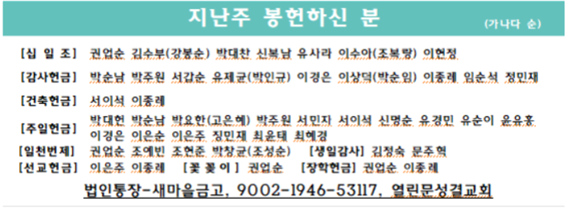
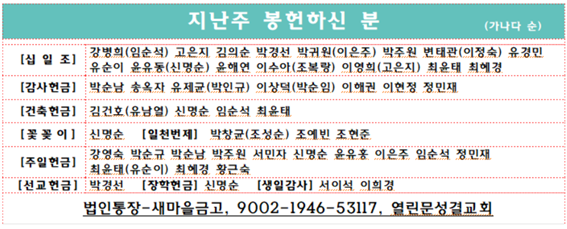
2021.10.30.(ver1.0)

diff --git a/index.html b/index.html
@@ -66,7 +66,7 @@
       <h1 class="home__title">
         열린문교회<br>
       </h1>
-      <h2 class="home__description">제 2권 43호 2021년 10월 24일</h2>
+      <h2 class="home__description">제 2권 44호 2021년 10월 31일</h2>
       
       <!-- 아래는 타이틀임, 안쓸 때는 주석처리하기로 -->
       <!-- <h2 class="home__description">설립 1주년 감사예배</h2> -->
@@ -97,8 +97,8 @@
 
       <h2>주일 낮 예배</h2>
       <ul class="ul1">
-          <li>사회: 최윤태 안수집사</li>
-          <li>다음주 사회: 조성돈 장로</li>
+          <li>사회: 조성돈 장로</li>
+          <li>다음주 사회: 유제균 장로</li>
       </ul>
 
         <table>
@@ -109,41 +109,41 @@
               </tr>
               <tr>    
                   <th><i class="fas fa-male"></i> 찬송</th>
-                  <td>40장</td>
+                  <td>35장</td>
               </tr>
               <tr>
                   <th><i class="fas fa-male"></i> 교독문</th>
-                  <td>30번 시 67 편 </td>
+                  <td> 104번 종교개혁주일  </td>
               </tr>
                   <th><i class="fas fa-male"></i> 신앙고백</th>
                   <td>사도신경</td>
               <tr>
                   <th>찬송</th>
-                  <td>220장</td>
+                  <td>585장</td>
               </tr>
               <tr>
                   <th>대표기도</th>
                   <td>
-                    1부 고은혜 집사<br>
-                    2부 조성돈 장로
+                    1부 전길식 집사<br>
+                    2부 유제균 장로
                   </td>
               </tr>
               <tr>
                   <th>성경봉독</th>
                   <td> 
-                    시 133 : 1---3
+                    에스겔 47 : 1---12
                   </td>
               </tr>
               <tr>
                   <th>특송</th>
                   <td>
-                    청년, 청소년
+                    비전 찬양대
                   </td>
               </tr>
               <tr>
                 <th>봉헌</th>
                 <td>
-                  595장<br>
+                  563장<br>
                 </td>
               </tr>
               <tr>
@@ -158,7 +158,7 @@
                   <th>설교</th>
                   <td>
                     <strong>
-                      아름다운 동거
+                      아름다운 개혁
                     </strong>
                   </td>
               </tr>
@@ -169,7 +169,8 @@
               <tr>
                   <th><i class="fas fa-male"></i>찬송</th>
                   <td>
-                    오늘 나는
+                    해 아래 새 것이 없나니 <br>
+                    정결한 맘 주시옵소서
                   </td>
               </tr>
               <tr>
@@ -197,8 +198,8 @@
               <tr>
                   <th>(다음주 기도)</th>
                   <td>
-                    1부 전길식 집사<br>
-                    2부 유제균 장로
+                    1부 전순영 집사<br>
+                    2부 고승수 안수집사
                   </td>
               </tr>
           </tbody>
@@ -221,11 +222,11 @@
     </tr>
     <tr>
       <th>기도</th>
-      <td>이현정 집사</td>
+      <td>김경옥 권사</td>
     </tr>
     <tr>
       <th>성경</th>
-      <td>창 18 : 1---15</td>
+      <td>창 18 : 22—33</td>
     </tr>
     <!-- <tr>
       <th>특송</th>
@@ -234,12 +235,12 @@
     <tr>
       <th>설교</th>
       <td>
-        준비된 믿음
+        기도의 모범
       </td>
     </tr>
     <tr>
       <th>찬송</th>
-      <td>542장</td>
+      <td>279장</td>
     </tr>
     <tr>
       <th>광고</th>
@@ -261,40 +262,45 @@
 </table>
 <br /><br />
       
-  <h2>수요 저녁 예배</h2>
+<!-- 다니엘 기도회 끝나고 나서 수요예배 다시 가져오기
+다니엘 기도회도 끝나고 지우지 말고 딴데다 저장해두기 -->
+
+  <h2>열방과 함께하는 2021년 다니엘 기도회</h2>
   <ul class="ul1">
-      <li>수요일 오후 7시 30분</li>
+      <li>오후 8시 30분</li>
   </ul>
     <table>
       <tbody>
           <tr>
-              <th>경배와 찬양</th>
-              <td>에바다 찬양단</td>
+              <th>월 (1일)</th>
+              <td>김은호 목사</td>
           </tr>
           <tr>    
-              <th>기도</th>
-              <td>장옥금 권사</td>
+              <th>화 (2일)</th>
+              <td>이은상 선교사</td>
           </tr>
           <tr>
-              <th>설교</th>
-              <td>조성돈 장로</td>
+              <th>수 (3일)</th>
+              <td>장진숙 작곡가</td>
           </tr>
-              <th>찬송</th>
-              <td>344장</td>
+              <th>목 (4일)</th>
+              <td>류응열 목사</td>
           <tr>
-              <th>합심기도</th>
-              <td>다같이</td>
-          </tr>
-          <tr>
-              <th>주기도문</th>
-              <td>다같이</td>
+              <th>금 (5일)</th>
+              <td>차길영 대표</td>
           </tr>
           <tr>
-              <th>(다음주 기도)</th>
-              <td>이영희 권사</td>
+              <th>토 (6일)</th>
+              <td>이옥 선교사</td>
+          </tr>
+          <tr>
+              <th>주일 (7일)</th>
+              <td>지선 전도사</td>
           </tr>
       </tbody>
-  </table>
+    </table>
+
+
   </div>
 </section>
 <br><br>
@@ -371,11 +377,10 @@
         </div>
         <h1 class="major__title">암송말씀</h1>
         <div class="major__description">
-          <p>형제들아 내가 우리 주 예수 그리스도의 이름으로</p>
-          <p>너희를 권하노니 모두가 같은 말을 하고</p>
-          <p>너희 가운데 분쟁이 없이</p> 
-          <p>같은 마음과 같은 뜻으로 온전히 합하라</p>
-          <p>(고전1:10)</p>  
+          <p>그러므로 우리가 낙심하지 아니하노니</p>
+          <p>우리의 겉사람은 낡아지나</p>
+          <p>우리의 속사람은 날로 새로워지도다</p> 
+          <p>(고후4:16)</p>  
         </div>
       </div>
     </section>
@@ -403,29 +408,29 @@
               >
 
             <div class="testimonial__speech-bubble">
-              <p><a href="">1.</a> 열린문교회에 오신 분들을 환영하고 축복합니다. 온라인 예배에도 동일한 은혜를 기원합니다.</p><br>
+              <p><a href="">1.</a>열린문교회에 오신 분들을 환영하고 축복합니다.</p><br>
 
-              <p><a href="">2.</a>다음 주일은 종교개혁주일 입니다</p><br>
+              <p><a href="">2.</a>오늘은 종교개혁 504주년 주일입니다.</p><br>
 
-              <p><a href="">3.</a>아침의 만나로 하루를 시작하시기 바랍니다. (성경 1독)</p><br>
+              <p><a href="">3.</a>11월 월삭은 내일(월) 새벽 5시입니다 (안수기도)</p><br>
 
-              <p><a href="">4.</a>낙심한 자, 잃어버린 자를 찾고 기도합니다</p><br>
+              <p><a href="">4.</a>내일 저녁부터 다니엘 기도회가 있습니다 (8시30분)</p><br>
 
-              <p><a href="">5.</a>방역수칙을 잘 지켜 서로를 보호합니다</p><br>
+              <p><a href="">5.</a>다음 주일저녁은 11월 선교예배입니다</p><br>
 
-              <p><a href="">6.</a>교육기관 정상화를 위해 기도 합시다</p><br>
+              <p><a href="">6.</a>다니엘 기도회 기간에 대심방을 하도록 하겠습니다</p><br>
 
-              <p><a href="">7.</a>🎉지난 주 등록하신 분 (이종래 집사)🎉</p><br>
+              <p><a href="">7.</a>방역수칙을 잘 지켜 서로를 보호합니다.</p><br>
 
-              <p><a href="">8.</a>11월부터 노방전도를 시작하겠습니다</p><br>
+              <p><a href="">8.</a>🎉지난 주일 등록하신 성도 (김지윤 성도, 이해권 성도)🎉</p><br>
 
-              <p><a href="">9.</a>11월 1일부터 다니엘기도회가 있습니다 (기도카드작성)</p><br>
+              <p><a href="">9.</a>노방전도는 금요일 11시 30분입니다.</p><br>
 
               <!-- 다음달 예배위원 안내 -> 지우지 말고 주석 처리해서 활용하자 -->
-              <!-- <p>
-                <a href="">다음달 안내위원</a> 고승수 안수집사, 박인규 권사 <br>
-                <a href="">다음달 헌금위원</a> 신중천 안수집사, 김정숙 권사 <br>
-              </p> -->
+              <p>
+                <a href="">다음달 안내위원</a> 유제균 장로  김영한 권사 <br>
+                <a href="">다음달 헌금위원</a> 오세웅안수집사 임순석집사 <br>
+              </p>
 
 
               <!-- 행사 배너 이미지 넣는 곳 // 나중에 주석 풀고 넣던가 -->

diff --git a/수요예배.html b/수요예배.html
@@ -1,0 +1,36 @@
+<h2>수요 저녁 예배</h2>
+<ul class="ul1">
+  <li>수요일 오후 7시 30분</li>
+</ul>
+<table>
+  <tbody>
+    <tr>
+      <th>경배와 찬양</th>
+      <td>에바다 찬양단</td>
+    </tr>
+    <tr>
+      <th>기도</th>
+      <td>장옥금 권사</td>
+    </tr>
+    <tr>
+      <th>설교</th>
+      <td>조성돈 장로</td>
+    </tr>
+    <th>찬송</th>
+    <td>344장</td>
+    <tr>
+      <th>합심기도</th>
+      <td>다같이</td>
+    </tr>
+    <tr>
+      <th>주기도문</th>
+      <td>다같이</td>
+    </tr>
+    <tr>
+      <th>(다음주 기도)</th>
+      <td>이영희 권사</td>
+    </tr>
+  </tbody>
+</table>
+
+<!-- 잠깐 여기다가 올려둡니다~ -->
